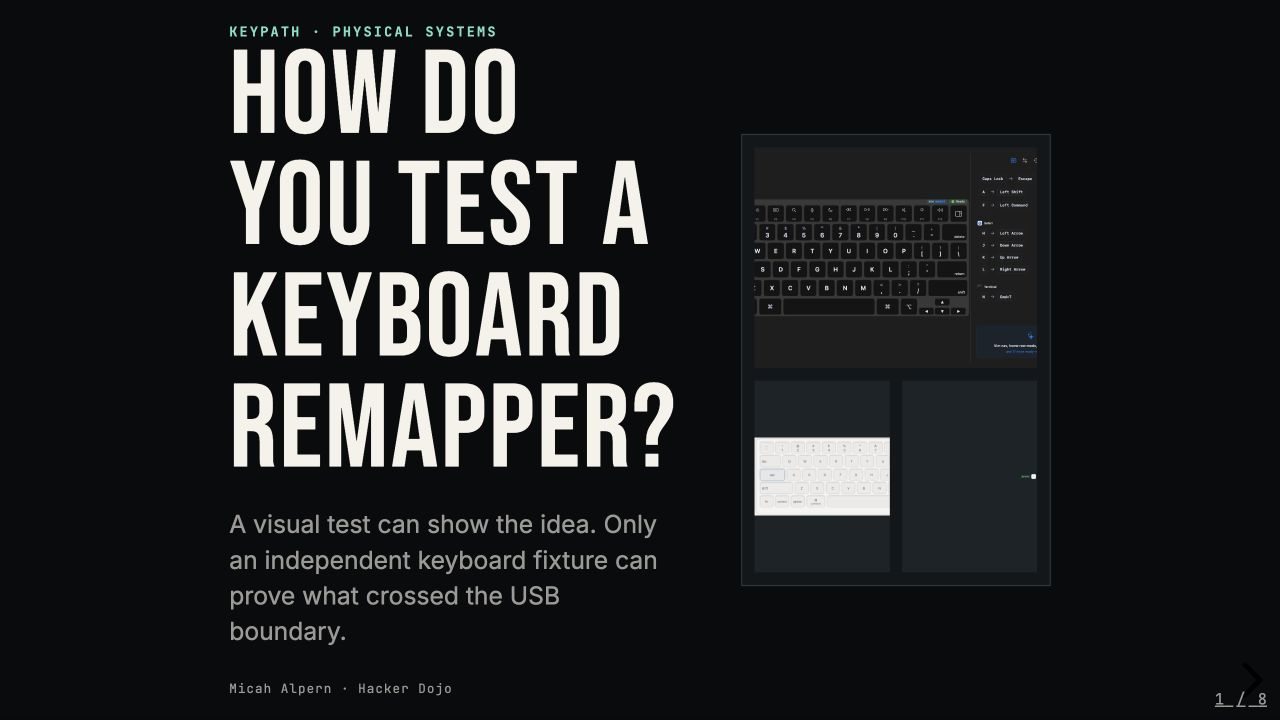
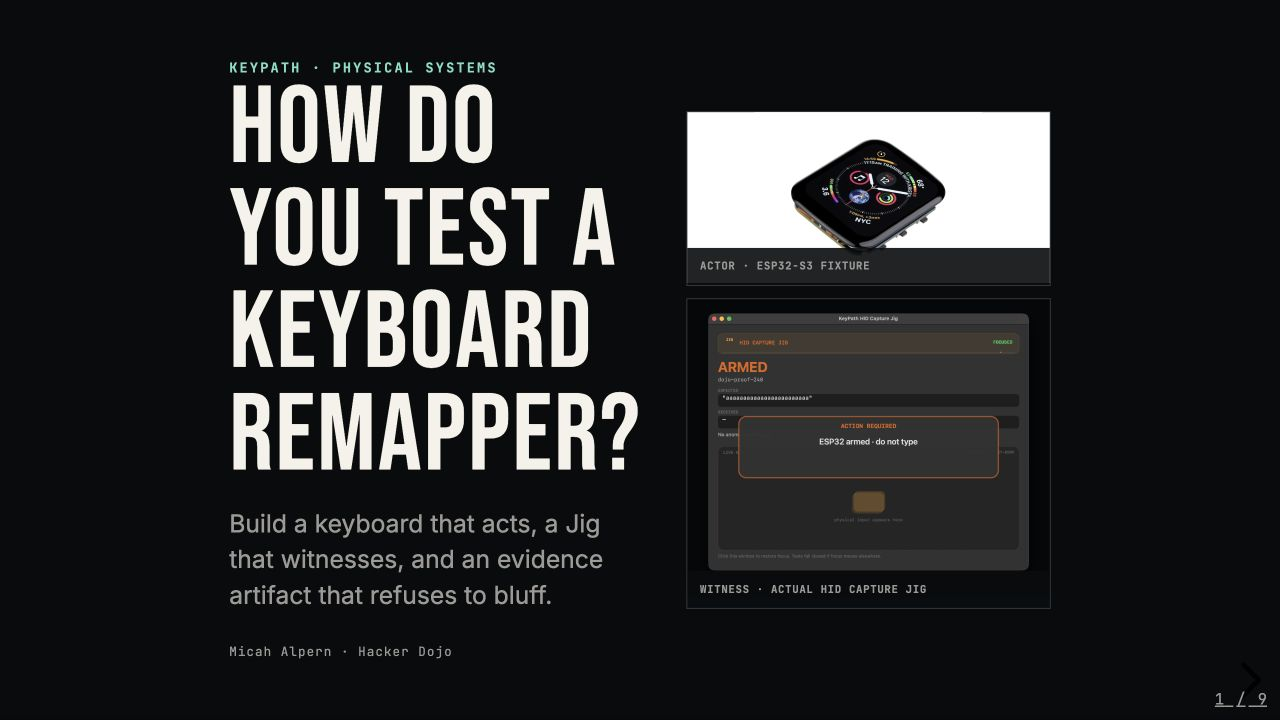
Show the KeyPath physical HID test rig

Changed region(s): [[0.1562, 0.0306, 0.8438, 0.9167], [0.2812, 0.9472, 0.3438, 0.9778], [0.1875, 0.9472, 0.25, 0.9778]]

diff --git a/keypath/deck.html b/keypath/deck.html
@@ -10,7 +10,44 @@
   <link rel="stylesheet" href="https://cdn.jsdelivr.net/npm/reveal.js@5.1.0/dist/reset.css">
   <link rel="stylesheet" href="https://cdn.jsdelivr.net/npm/reveal.js@5.1.0/dist/reveal.css">
   <link rel="stylesheet" href="../shared/deck.css">
-  <style>:root{--bg:#090c0e;--panel:#12171a;--panel-2:#1b2327;--accent:#75ddc4;--accent-2:#ff9b54}.title-grid{grid-template-columns:.92fr 1.08fr}.title-copy h1{font-size:3.75em}</style>
+  <style>
+    :root{--bg:#090c0e;--panel:#12171a;--panel-2:#1b2327;--accent:#75ddc4;--accent-2:#ff9b54}
+    .title-grid{grid-template-columns:.82fr 1.18fr;gap:3.5vw}.title-copy h1{font-size:3.45em}
+    .rig-hero{display:grid;grid-template-rows:.72fr 1.28fr;gap:1vw;height:70vh}
+    .rig-hero figure{position:relative;background:var(--panel);border:1px solid var(--rule);overflow:hidden;min-height:0}
+    .rig-hero img{width:100%;height:42vh;object-fit:contain;background:#050708}
+    .rig-hero .device img{height:24vh;object-fit:contain;background:#fff}
+    .rig-hero figcaption{position:absolute;left:0;right:0;bottom:0;padding:1.05em 1.2em;background:rgba(9,12,14,.9);color:var(--muted);font:700 .34em/1.35 'JetBrains Mono',monospace;letter-spacing:.06em;text-transform:uppercase}
+    .triptych-slide h2{font-size:2.2em;max-width:none;margin-bottom:.28em}
+    .triptych{display:grid;grid-template-columns:.92fr .62fr 1.12fr;gap:1vw}
+    .proof-card{background:var(--panel);border-top:3px solid var(--accent);padding:.7em;min-height:48vh}
+    .proof-card img{width:100%;height:23vh;object-fit:contain;background:#050708}.proof-card.device img{background:#fff;object-fit:cover}
+    .proof-card h3{margin:.75em 0 .35em}.proof-card p{font-size:.52em;color:var(--muted)}
+    .source-grid{display:grid;grid-template-columns:.78fr 1.22fr;gap:3vw;align-items:center}
+    .source-code-slide h2{font-size:2.15em;max-width:none;margin-bottom:.38em}
+    .source-code-slide .source-grid p{font-size:.62em;line-height:1.42}
+    .source-code-slide .code-panel code{font-size:.41em;line-height:1.46}
+    .device-stage{background:#fff;border:1px solid var(--rule);height:69vh;display:flex;align-items:center;justify-content:center;overflow:hidden}
+    .device-stage img{width:100%;height:100%;object-fit:cover}
+    .code-panel{background:#070a0c;border:1px solid rgba(117,221,196,.28);padding:1.05em 1.15em;box-shadow:inset 0 0 0 1px rgba(255,255,255,.02)}
+    .code-panel .path{display:block;color:var(--accent-2);font:700 .31em/1.4 'JetBrains Mono',monospace;letter-spacing:.05em;margin-bottom:1em}
+    .code-panel pre{margin:0;white-space:pre-wrap}.code-panel code{font-size:.47em;line-height:1.55;color:#d7dedc}
+    .code-panel .hl{color:var(--accent);font-weight:700}.code-panel .warm{color:var(--accent-2);font-weight:700}
+    .screen-copy h2{max-width:10ch}.screen-copy .claim{border-left:4px solid var(--accent-2);padding-left:1em;color:var(--muted);max-width:34ch}
+    .device-boundary .screen-copy h2{font-size:2.35em;max-width:12ch;margin-bottom:.3em}
+    .device-boundary .screen-copy p{font-size:.62em;line-height:1.38}
+    .device-boundary .code-panel code{font-size:.43em}
+    .jig-shot{height:72vh;background:#050708;border:1px solid var(--rule);overflow:hidden}.jig-shot img{width:100%;height:100%;object-fit:contain}
+    .metrics{display:grid;grid-template-columns:repeat(4,1fr);gap:1vw;margin-top:1.2em}
+    .metric{background:var(--panel);border-top:3px solid var(--accent);padding:.8em}.metric b{display:block;color:var(--accent);font:700 .55em/1.2 'JetBrains Mono',monospace}.metric span{display:block;color:var(--muted);font-size:.45em;line-height:1.4;margin-top:.55em}
+    .truth-table .actor{color:var(--accent-2)}
+    .artifact-slide h2{font-size:2.1em;max-width:none;margin-bottom:.35em}
+    .artifact-slide .metrics{margin-top:.4em}
+    .artifact-slide .metric{padding:.62em}
+    .artifact-slide .truth-table{margin-top:.72em!important}
+    .artifact-slide .truth-table th,.artifact-slide .truth-table td{padding:.48em .6em;font-size:.48em}
+    .artifact-slide .truth-table th{font-size:.36em}
+  </style>
 </head>
 <body>
 <div class="reveal"><div class="slides">
@@ -19,13 +56,12 @@
       <div class="title-copy">
         <p class="eyebrow">KeyPath · physical systems</p>
         <h1>How Do You Test a Keyboard Remapper?</h1>
-        <p class="dek">A visual test can show the idea. Only an independent keyboard fixture can prove what crossed the USB boundary.</p>
+        <p class="dek">Build a keyboard that acts, a Jig that witnesses, and an evidence artifact that refuses to bluff.</p>
         <p class="byline">Micah Alpern · Hacker Dojo</p>
       </div>
-      <div class="hero-stack" aria-label="Real KeyPath application and test captures">
-        <img src="assets/rules-window.png" alt="KeyPath rules window showing keyboard remapping rules">
-        <img src="assets/caps-to-escape.png" alt="KeyPath onboarding snapshot for a Caps Lock to Escape rule">
-        <img src="assets/live-overlay.png" alt="KeyPath live overlay snapshot">
+      <div class="rig-hero" aria-label="The real KeyPath physical test rig">
+        <figure class="device"><img src="assets/esp32-s3-touch-lcd-1.69.jpg" alt="Waveshare ESP32-S3 Touch LCD board used by the KeyPath HID fixture"><figcaption>Actor · ESP32-S3 fixture</figcaption></figure>
+        <figure><img src="assets/hid-capture-jig.png" alt="Actual KeyPath HID Capture Jig armed and focused"><figcaption>Witness · actual HID Capture Jig</figcaption></figure>
       </div>
     </div>
   </section>
@@ -33,69 +69,127 @@
   <section class="statement">
     <p class="eyebrow">The trap</p>
     <h2>A remapper can look correct while emitting the wrong thing.</h2>
-    <p>UI snapshots prove the explanation. Unit tests prove transformations. Neither proves the host received the intended key sequence at the intended timing.</p>
+    <p>UI snapshots prove the explanation. Unit tests prove transformations. Neither proves what crossed USB—or whether the last key was released.</p>
   </section>
 
-  <section>
-    <p class="eyebrow">Three different claims</p>
-    <div class="evidence-grid">
-      <article class="evidence"><p class="kicker">01 · explanation</p><img src="assets/caps-to-escape.png" alt="KeyPath rule preview"><h3>The rule reads correctly</h3><p>The visual model communicates the mapping and its scope.</p></article>
-      <article class="evidence"><p class="kicker">02 · software</p><img src="assets/live-overlay.png" alt="KeyPath live overlay"><h3>The app reports correctly</h3><p>Focused tests and overlays agree about the transformation.</p></article>
-      <article class="evidence"><p class="kicker">03 · boundary</p><img src="assets/keypath-poster-hor.png" alt="KeyPath application poster"><h3>The host receives correctly</h3><p>An external fixture records expected text, received text, timing, and release.</p></article>
+  <section class="triptych-slide">
+    <p class="eyebrow">The whole rig</p>
+    <h2>Three surfaces. Three different jobs.</h2>
+    <div class="triptych">
+      <article class="proof-card"><img src="assets/rules-window.png" alt="Actual KeyPath rules window"><h3>KeyPath explains</h3><p>The rule, trigger, scope, and output are legible before the run.</p></article>
+      <article class="proof-card device"><img src="assets/esp32-s3-touch-lcd-1.69.jpg" alt="Waveshare ESP32-S3 Touch LCD fixture hardware"><h3>ESP32 acts</h3><p>The fixture schedules deterministic USB HID reports locally.</p></article>
+      <article class="proof-card"><img src="assets/hid-capture-jig.png" alt="Actual KeyPath HID Capture Jig"><h3>The Jig witnesses</h3><p>The focused host records what macOS actually received.</p></article>
     </div>
   </section>
 
-  <section class="split">
-    <div>
-      <p class="eyebrow">The real product surface</p>
-      <h2>Make the rule legible before making it powerful.</h2>
-      <p>KeyPath shows the keyboard, the trigger, and the output together. The testing story follows the same principle: every layer needs visible evidence.</p>
+  <section class="split device-boundary">
+    <div class="screen-copy">
+      <p class="eyebrow">On the ESP32 screen</p>
+      <h2>The actor cannot declare itself correct.</h2>
+      <p class="claim">The physical screen ends with <em>HID SENT</em> and <em>CHECK JIG FOR RESULT</em>—never “passed.”</p>
+      <p>The 240×280 touch display exposes run state and timing pressure. Touch and the physical button remain available for abort; the motion governor sheds display work before it competes with HID delivery.</p>
     </div>
-    <figure>
-      <div class="full-image crop"><img src="assets/rules-window.png" alt="KeyPath rule editor with visual keyboard"></div>
-      <figcaption class="caption">Actual KeyPath UI capture · rule editor</figcaption>
-    </figure>
+    <div class="code-panel">
+      <span class="path">fixture_runtime.c · on-device result boundary</span>
+      <pre><code>presentation.phase = FIXTURE_PRESENT_RESULT;
+presentation.result = <span class="warm">FIXTURE_RESULT_INCONCLUSIVE</span>;
+presentation.progress_per_mille = 1000u;
+
+snprintf(presentation.title,
+         sizeof(presentation.title),
+         <span class="hl">"HID SENT"</span>);
+snprintf(presentation.detail,
+         sizeof(presentation.detail),
+         <span class="hl">"CHECK JIG FOR RESULT"</span>);</code></pre>
+    </div>
   </section>
 
-  <section>
-    <p class="eyebrow">Fixture loop</p>
-    <h2>Separate the actor from the witness.</h2>
-    <div class="flow">
-      <div class="step"><b>01 · drive</b><span>Independent USB keyboard sends a deterministic sequence.</span><small>Wi-Fi control keeps the fixture outside the remapper’s process.</small></div>
-      <div class="step"><b>02 · observe</b><span>Focused host captures the actual text and event timing.</span><small>Focus ownership is recorded because the right keys in the wrong app are still a failed run.</small></div>
-      <div class="step"><b>03 · compare</b><span>Expected, received, trace, and release state travel together.</span><small>A partial capture stays partial; the report does not promote it to proof.</small></div>
-    </div>
-  </section>
+  <section class="source-code-slide">
+    <p class="eyebrow">Inside the ESP32</p>
+    <h2>Timing belongs on the device.</h2>
+    <div class="source-grid">
+      <div>
+        <p>Wi-Fi loads and arms a bounded script. After start, the ESP32 schedules each press and release locally, so network jitter cannot alter inter-key timing.</p>
+        <p>The scheduler yields when it has room, then precision-spins near the next report deadline. USB service, control, sound, and display stay off the HID core.</p>
+      </div>
+      <div class="code-panel">
+        <span class="path">fixture_runtime.c · cooperative HID scheduler</span>
+        <pre><code>wait_us = fixture_time_until_next_action_us(
+    &amp;fixture, now_us);
 
-  <section>
-    <p class="eyebrow">Evidence taxonomy</p>
-    <h2>Green is not one color.</h2>
-    <table class="truth-table">
-      <thead><tr><th>Result</th><th>What it establishes</th><th>What it does not establish</th></tr></thead>
-      <tbody>
-        <tr><td class="yes">Snapshot passes</td><td>Layout and explanation remain stable</td><td>USB emission or timing</td></tr>
-        <tr><td class="yes">Focused software tests pass</td><td>Transformation logic matches the specification</td><td>Physical device-to-host behavior</td></tr>
-        <tr><td class="pending">Showroom demo passes</td><td>The interaction can be demonstrated</td><td>Strict admission or comparison control</td></tr>
-        <tr><td class="yes">Fixture report completes</td><td>Expected/received/trace/release evidence is coherent</td><td>Every untested keyboard or host</td></tr>
-      </tbody>
-    </table>
+if (!running) {
+    vTaskDelay(pdMS_TO_TICKS(5));
+} else if (wait_us &gt; 1500u) {
+    uint32_t sleep_ms = (wait_us - 1000u) / 1000u;
+    if (sleep_ms &gt; 10u) sleep_ms = 10u;
+    <span class="hl">vTaskDelay(pdMS_TO_TICKS(sleep_ms));</span>
+} else {
+    <span class="warm">esp_rom_delay_us(25u);</span>
+}</code></pre>
+      </div>
+    </div>
   </section>
 
   <section class="split reverse">
     <figure>
-      <div class="full-image"><img src="assets/keypath-poster-hor.png" alt="KeyPath app poster featuring a laptop keyboard"></div>
-      <figcaption class="caption">Real KeyPath project artwork</figcaption>
+      <div class="jig-shot"><img src="assets/hid-capture-jig.png" alt="Actual KeyPath HID Capture Jig armed for a 240-character run"></div>
+      <figcaption class="caption">Actual AppKit Jig capture · controlled demo arm · no physical keys emitted</figcaption>
     </figure>
     <div>
-      <p class="eyebrow">The design lesson</p>
-      <h2>Trust comes from named boundaries.</h2>
-      <p>“Looks right,” “logic passed,” and “hardware verified” should never collapse into one status. A trustworthy tool tells you exactly which claim you earned.</p>
+      <p class="eyebrow">The independent witness</p>
+      <h2>The Jig fails closed.</h2>
+      <p><strong>FOCUSED</strong> is evidence, not decoration. Moving focus invalidates the run. Expected and received text stay side by side; the live keycap stack preserves fast event order; partial evidence stays partial.</p>
     </div>
+  </section>
+
+  <section class="source-code-slide">
+    <p class="eyebrow">Inside the Jig</p>
+    <h2>“Passed” is a conjunction.</h2>
+    <div class="source-grid">
+      <div class="code-panel">
+        <span class="path">CaptureSession.swift · terminal classification</span>
+        <pre><code>if focusLost || repeatEvents &gt; 0 ||
+   duplicateDownEvents &gt; 0 ||
+   unmatchedUpEvents &gt; 0 ||
+   mismatchIndex() != nil {
+    state = <span class="warm">.failed</span>
+}
+
+if received == expected,
+   pressedKeyCodes.isEmpty,
+   activeModifiers == 0 {
+    state = <span class="hl">.passed</span>
+}</code></pre>
+      </div>
+      <div>
+        <p>The oracle checks exact characters, order, repeats, duplicate downs, unmatched ups, modifiers, release state, timeout, and focus ownership.</p>
+        <p>That turns a foreground demo into a machine-readable result with a timestamped event ledger and persisted JSON.</p>
+      </div>
+    </div>
+  </section>
+
+  <section class="artifact-slide">
+    <p class="eyebrow">The joined artifact</p>
+    <h2>One run should answer four questions.</h2>
+    <div class="metrics">
+      <div class="metric"><b>EXPECTED = RECEIVED</b><span>Exact characters and order—not “looks close.”</span></div>
+      <div class="metric"><b>FOCUS HELD</b><span>The intended oracle owned the foreground throughout.</span></div>
+      <div class="metric"><b>ALL KEYS RELEASED</b><span>No stuck keys or active modifiers at the boundary.</span></div>
+      <div class="metric"><b>TRACE COMPLETE</b><span>ESP32 timing and report counts travel with host events.</span></div>
+    </div>
+    <table class="truth-table" style="margin-top:1.25em">
+      <thead><tr><th>Surface</th><th>Allowed to claim</th><th>Not allowed to claim</th></tr></thead>
+      <tbody>
+        <tr><td class="actor">ESP32 screen</td><td>Reports were scheduled and sent</td><td>macOS received the right result</td></tr>
+        <tr><td class="yes">Host Jig</td><td>Exact capture, focus, release, event ledger</td><td>Every untested host or keyboard</td></tr>
+        <tr><td class="yes">Joined report</td><td>This bounded physical run passed</td><td>Universal correctness</td></tr>
+      </tbody>
+    </table>
   </section>
 
   <section class="statement">
     <p class="eyebrow">Takeaway</p>
-    <p class="quote">Test the explanation. Test the transformation. Then test the wire.</p>
+    <p class="quote">Let the keyboard act. Let the Jig judge.</p>
     <p class="footer">KeyPath · physical evidence over implied certainty</p>
   </section>
 </div></div>

diff --git a/AUDIT.md b/AUDIT.md
@@ -18,14 +18,17 @@ lifestyle scene is used. Meeting Memory and YARM screenshots use deterministic s
 
 ## 28 · KeyPath
 
-- **Creative audit:** The first title treatment left too little room for the real UI captures. The
-  final grid gives the evidence column more width, keeps the existing dark Hacker Dojo visual system,
-  and treats the real rules window as proof rather than decoration.
-- **Content audit:** The deck now separates UI explanation, software correctness, showroom evidence,
-  and physical fixture evidence. It does not promote an incomplete or demo-only capture to hardware
-  acceptance.
-- **Iteration:** Tightened the title scale, enlarged the evidence column, removed figure overflow,
-  and added a three-part fixture loop plus evidence taxonomy.
+- **Creative audit:** The first revision still treated physical validation as text around KeyPath app
+  screenshots. The revised title and rig sequence now center the actual ESP32-S3 hardware and a fresh
+  capture of the real AppKit HID Capture Jig. The device photo is an official image of the selected
+  board, not a fabricated enclosure or lifestyle scene.
+- **Content audit:** The deck names the actor/witness boundary, shows the exact firmware strings that
+  refuse to self-certify, explains device-local timing, and shows the Jig's fail-closed focus, exact
+  match, repeat, modifier, and all-keys-released checks. The Jig image is explicitly labeled as a
+  controlled demo arm with no physical keys emitted; it is not presented as a completed validation run.
+- **Iteration:** Replaced generic KeyPath project art with a real rig hero, added dedicated ESP32 screen
+  and scheduler-code sections, added the actual Jig UI and classifier code, and ended with the four-part
+  joined artifact required to call one bounded physical run passed.
 
 ## 27 · Typover
 
